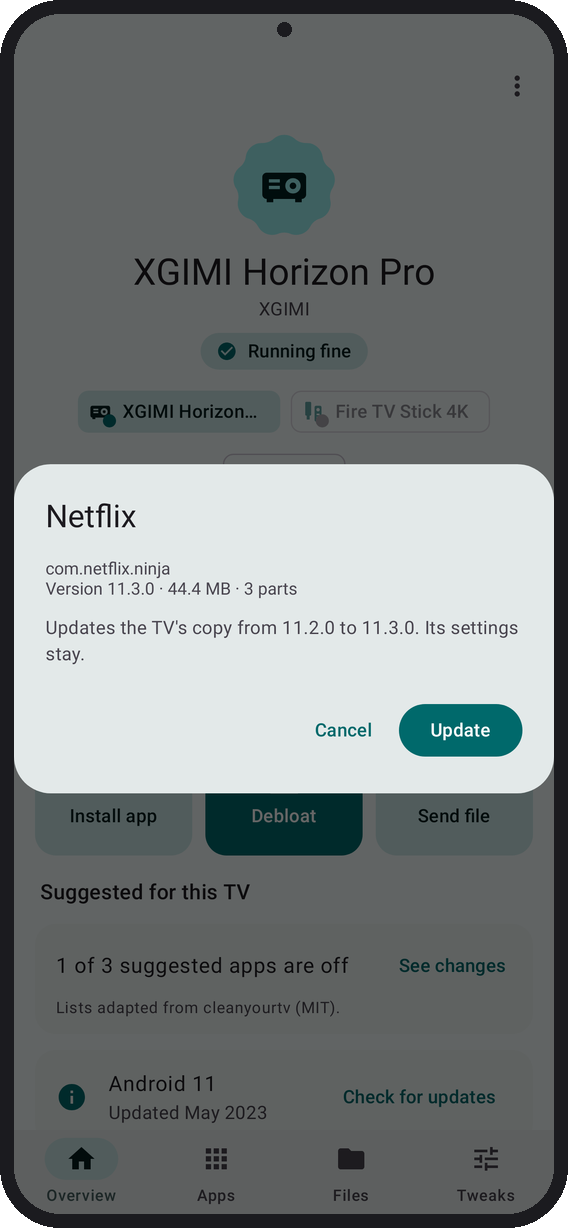
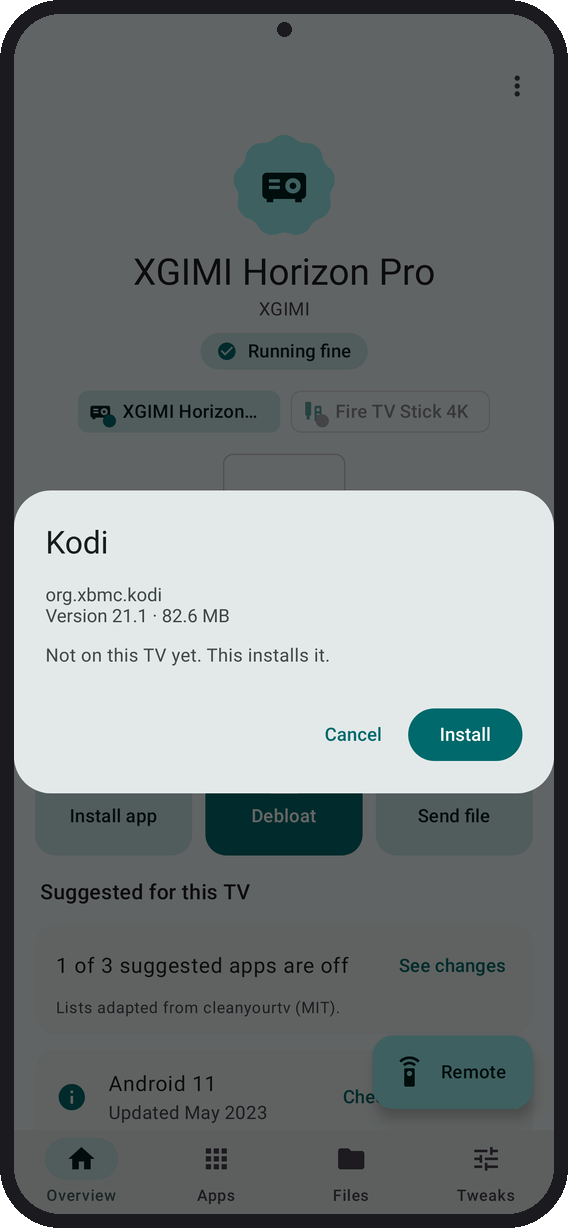
README: Install shows a fresh install
install.png now shows the Install dialog for an app the TV does not have
yet, to match the "Install apps" caption; alt text and footnote follow.

diff --git a/README.md b/README.md
@@ -21,7 +21,7 @@ Debloat your Android TV, install apps, and browse and transfer files on it, all 
     <td width="25%"><img src="docs/screenshots/tv-page.png" alt="A TV's page: the TV at a glance, its vitals, and the Install, Debloat and Send buttons"></td>
     <td width="25%"><img src="docs/screenshots/remote.png" alt="The Remote: Screen off in the top bar, a D-pad, icon keys for Back, Home, Menu, mute and volume, a dock of four TV apps, and typing on the TV with a button to clear its text box"></td>
     <td width="25%"><img src="docs/screenshots/debloat.png" alt="Debloat: the TV's model on top, then the apps it will turn off, each with its package name"></td>
-    <td width="25%"><img src="docs/screenshots/install.png" alt="Updating Netflix on the TV from an APK on the phone"></td>
+    <td width="25%"><img src="docs/screenshots/install.png" alt="Installing Kodi on the TV from an APK on the phone: the dialog says it is not on this TV yet"></td>
   </tr>
   <tr>
     <td align="center"><sub>Your TV at a glance</sub></td>
@@ -43,7 +43,7 @@ Debloat your Android TV, install apps, and browse and transfer files on it, all 
   </tr>
 </table>
 
-<sub>Rendered from the app's screenshot tests with sample data. Remote and the Tweaks launcher row are drawn to match the app, and Advanced joins parts of its longer page.</sub>
+<sub>Rendered from the app's screenshot tests with sample data. Remote, the Install dialog and the Tweaks launcher row are drawn to match the app, and Advanced joins parts of its longer page.</sub>
 
 ## Get it
 
